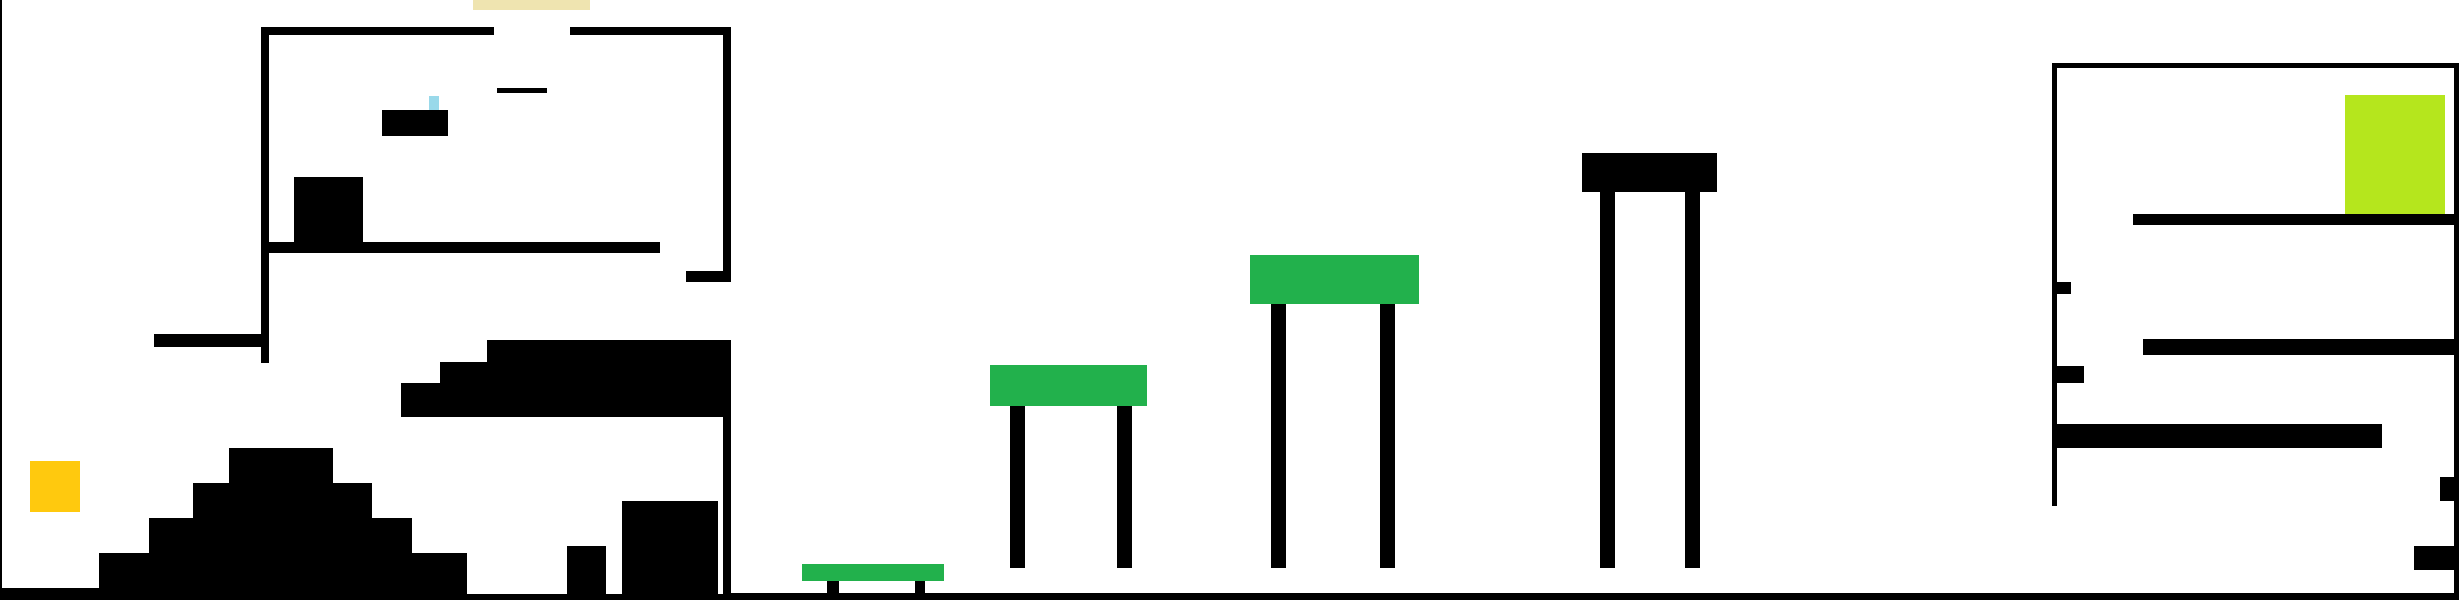
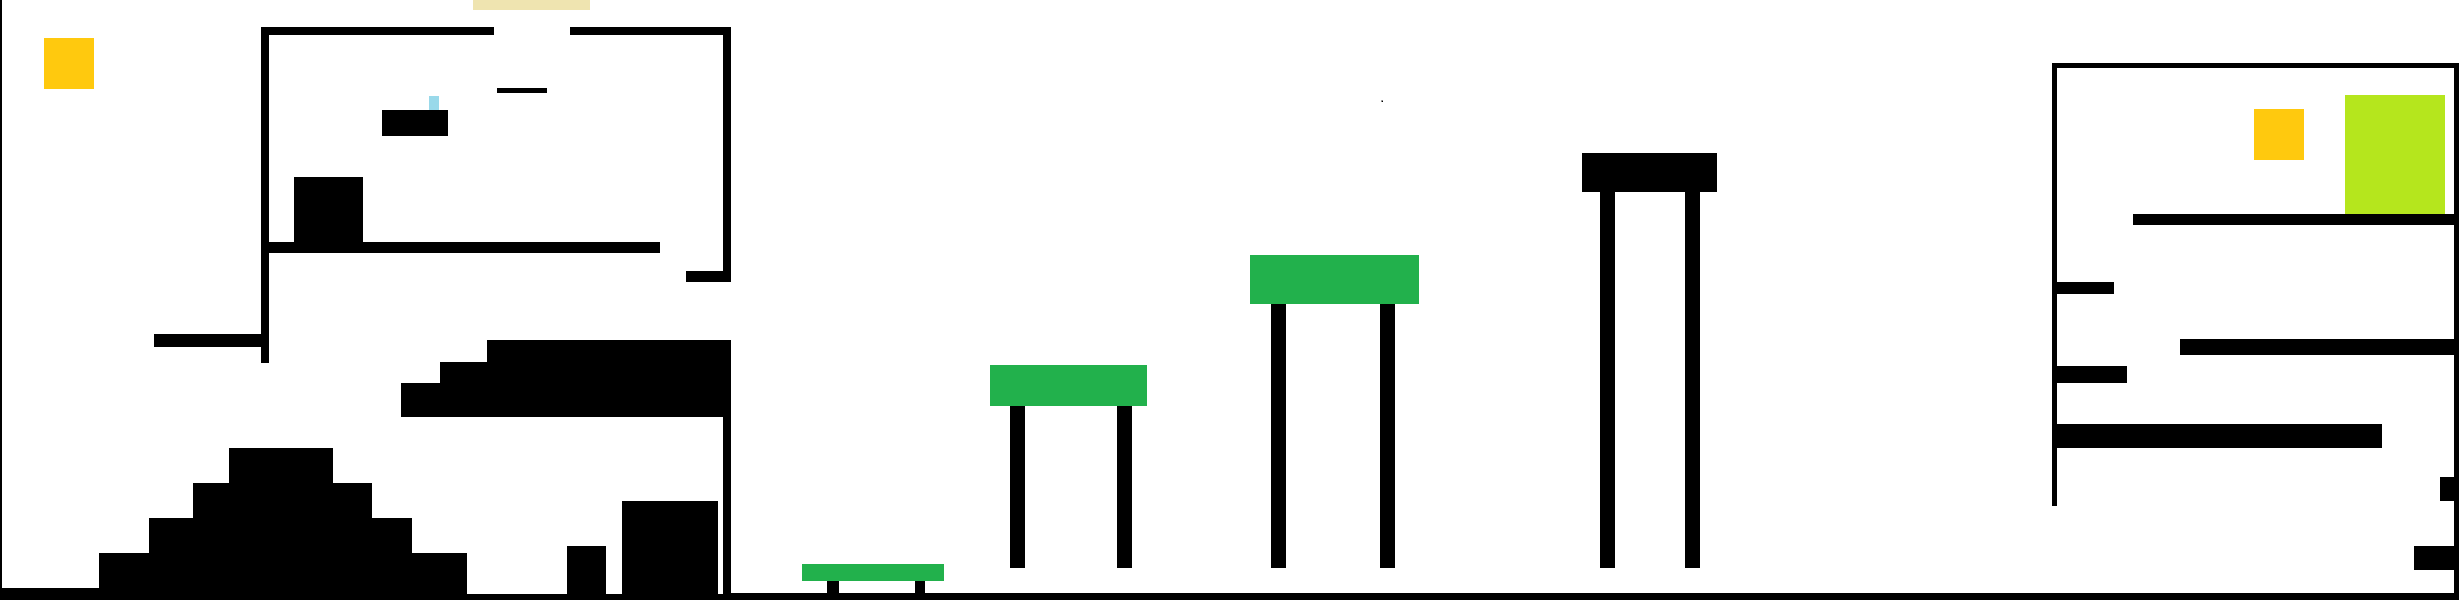
added largePotion +

diff --git a/src/MainGame.java b/src/MainGame.java
@@ -2,6 +2,7 @@
 import java.awt.Color;
 import java.awt.event.KeyEvent;
 import java.util.ArrayList;
+import java.util.Iterator;
 
 /*
  * To change this license header, choose License Headers in Project Properties.
@@ -27,7 +28,15 @@ public class MainGame extends Level{
     @Override
     public void generateLevel() {
         initialOffset = -2;
-        camx = initialOffset;
+        
+        if (p.x > Main.WIDTH/2)
+        {
+            camx = Main.WIDTH/2 - p.x;
+        }
+        else
+        {
+            camx = initialOffset;
+        }
     }
 
     @Override
@@ -80,13 +89,16 @@ public class MainGame extends Level{
             {
                 camx -= p.getXspd();
             }
+            else
+            {
+                camx = Main.WIDTH - background.getWidth();
+            }
         }
         else
         {
-            
             camx = initialOffset;
         }
-        
+        deleteBlocks();
 
     }
 
@@ -105,6 +117,11 @@ public class MainGame extends Level{
         if (id == 3) // trampoline
         {
             blocks.add(new BouncyMain(dimensions[0], dimensions[1], dimensions[2], dimensions[3], Color.BLACK));
+        }
+        if (id == 4) // LargePotion
+        {
+            blocks.add(new LargePotion(dimensions[0], dimensions[1], dimensions[2], dimensions[3], "images\\largePotion.png"));
+            drawables.add(blocks.get(blocks.size()-1));
         }
     }
 
@@ -127,15 +144,34 @@ public class MainGame extends Level{
                 {
                     map[y][x] = 3;
                 }
-                /*
+                
                 if (objects.getRGB(x, y) == -4856291) // (34, 177, 76) large potion
                 {
                     map[y][x] = 4;
                 }
+                /*
                 if (objects.getRGB(x, y) == -6694422) // (153, 217, 234) small potion
                 {
                     map[y][x] = 5;
                 }*/
+            }
+        }
+    }
+    
+    private void deleteBlocks()
+    {
+        Iterator<ObstacleMain> it = blocks.iterator();
+        while (it.hasNext())
+        {
+            ObstacleMain next = it.next();
+            if (next.toDelete)
+            {
+                
+                if (drawables.contains(next))
+                {
+                    drawables.remove(next);
+                }
+                it.remove();
             }
         }
     }

diff --git a/src/ObstacleMain.java b/src/ObstacleMain.java
@@ -1,16 +1,34 @@
 import java.awt.Color;
 import java.awt.Graphics;
 import java.awt.Rectangle;
+import java.awt.image.BufferedImage;
 
 
 public class ObstacleMain extends Rectangle implements Drawables{
     
     private Color c;
+    private BufferedImage sprite;
+    protected boolean toDelete = false;
     
     public ObstacleMain(int x, int y, int width, int height, Color c)
     {
         super(x, y, width ,height);
         this.c = c;
+    }
+    public ObstacleMain(int x, int y, int width, int height, String spriteName)
+    {
+        super(x, y, width ,height);
+        c = null;
+        try
+        {
+            sprite = ImageHelper.loadImage(spriteName);
+            sprite = ImageHelper.resize(sprite, width, height);
+        }
+        catch(Exception e)
+        {
+            System.out.println("Error Loading ObstacleMain sprite");
+            throw e;
+        }
     }
     
     public void collideX(PlayerMain p)
@@ -43,8 +61,15 @@ public class ObstacleMain extends Rectangle implements Drawables{
     @Override
     public void draw(Graphics g, int camx)
     {
-        g.setColor(c);
-        g.fillRect(x + camx, y, width ,height);
+        if (c != null)
+        {
+            g.setColor(c);
+            g.fillRect(x + camx, y, width ,height);
+        }
+        else
+        {
+            g.drawImage(sprite, x+camx, y, null);
+        }
     }
     
 }

diff --git a/src/PlayerMain.java b/src/PlayerMain.java
@@ -22,12 +22,14 @@ public class PlayerMain extends Rectangle implements Drawables{
     private double yspd = 0;
     private double xspd;
     private double walkSpeed = 3;
+    
     private boolean onGround = false;
     
     public PlayerMain(int x, int y, int width, int height, Color c)
     {
         super(x, y, width, height);
         this.c = c;
+        //walkSpeed = 6;
     }
     
     public void update(boolean w, boolean a, boolean d, ArrayList<ObstacleMain>... ObstacleMains)
@@ -80,6 +82,7 @@ public class PlayerMain extends Rectangle implements Drawables{
         onGround = false;
         jumpSpeed = -5;
         
+        collisionloop:
         for (int i = 0; i < Math.abs(yspd); i++)
         {
             y += yspd/Math.abs(yspd);
@@ -90,6 +93,7 @@ public class PlayerMain extends Rectangle implements Drawables{
                     if (this.intersects(o))
                     {
                         o.collideY(this);
+                        break collisionloop;
                     }
                 }
             }

diff --git a/src/LargePotion.java b/src/LargePotion.java
@@ -1,0 +1,38 @@
+/*
+ * To change this license header, choose License Headers in Project Properties.
+ * To change this template file, choose Tools | Templates
+ * and open the template in the editor.
+ */
+
+/**
+ *
+ * @author Dmitry
+ */
+public class LargePotion extends ObstacleMain{
+    public LargePotion(int x, int y, int width, int height, String sprite)
+    {
+        super(x, y, width, height, sprite);
+    }
+    
+    @Override 
+    public void collideX(PlayerMain p)
+    {
+        p.width /= 2;
+        p.height /= 2;
+        p.x += p.width/2;
+        p.y += p.height/2;
+        toDelete = true;
+    }
+    
+    @Override 
+    public void collideY(PlayerMain p)
+    {
+        p.width /= 2;
+        p.height /= 2;
+        p.x += p.width/2;
+        p.y += p.height/2;
+        toDelete = true;
+    }
+    
+    
+}
